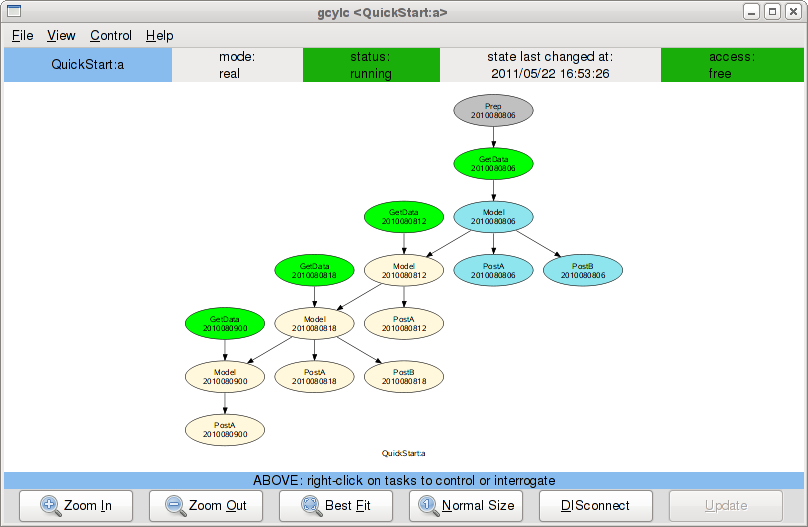
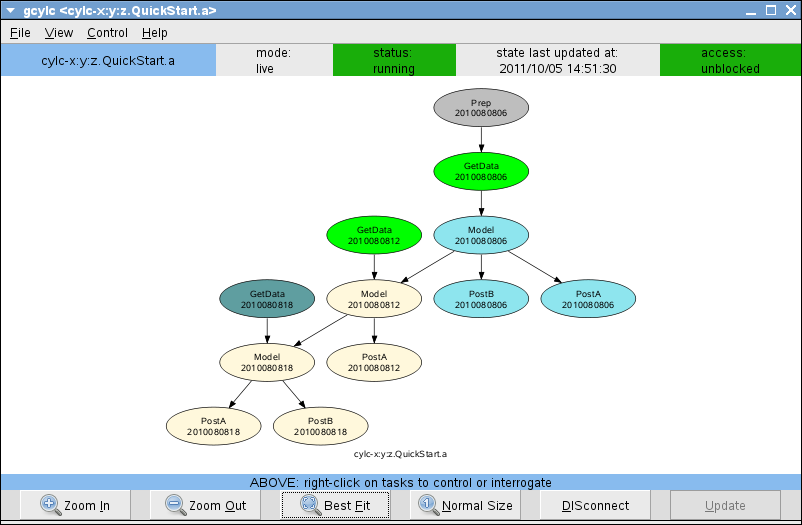
Updated the User Guide Quick Start screenshots and text.

Changed region(s): [[0.0, 0.0, 1.0, 1.0]]

diff --git a/doc/cug.tex b/doc/cug.tex
@@ -1203,8 +1203,8 @@ Figure~\ref{fig-QuickStartA-ControlStart00}.
     \end{center}
     \caption[Suite {\em QuickStart.a} at start-up, 06 or 18 hours.]{\scriptsize
     Suite {\em QuickStart:one} at start-up with an initial
-    cycle time ending in 06 or 18 hours. Blue nodes indicate tasks
-    in the waiting state.}
+    cycle time ending in 06 or 18 hours. Yellow nodes represent 
+    waiting tasks in the held state.}
     \label{fig-QuickStartA-ControlStart06}
 \end{figure} 
 
@@ -1214,10 +1214,10 @@ Figure~\ref{fig-QuickStartA-ControlStart00}.
     \end{center}
     \caption[Suite {\em QuickStart.a} at start-up, 00 or 12
     hours]{\scriptsize Suite {\em QuickStart.a} at start-up with an
-    initial cycle time ending in 00 or 12 hours. Blue nodes represent 
-    tasks in the waiting state and off-white nodes are tasks from the 
-    base graph, defined in the suite.rc file, that aren't currently live
-    in the suite.}
+    initial cycle time ending in 00 or 12 hours. Yellow nodes represent 
+    waiting tasks in the held state and off-white nodes are tasks from
+    the base graph, defined in the suite.rc file, that aren't currently
+    live in the suite.}
     \label{fig-QuickStartA-ControlStart00}
 \end{figure} 
 
@@ -1232,8 +1232,9 @@ are shown in the graph in order to put the live tasks in context).
 Now, click on Control $\rightarrow$ Release in the suite control GUI
 to {\em release the hold on the suite}, 
 and observe what happens: the GetData tasks will rapidly go off 
-in parallel out to a few cycles ahead , and then the suite will stall,
-as shown in Figures~\ref{fig-QuickStartA-ControlRunning}
+in parallel out to a few cycles ahead (how far ahead depends on 
+the suite runahead limit, explained below) and then the suite will
+stall, as shown in Figures~\ref{fig-QuickStartA-ControlRunning}
 and~\ref{fig-QuickStartA-ControlStalled}. 
 
 \begin{figure}
@@ -1241,8 +1242,9 @@ and~\ref{fig-QuickStartA-ControlStalled}.
         \includegraphics[width=0.8\textwidth]{screenshots/QuickStartA-ControlRunning.png}
     \end{center}
     \caption[Suite {\em QuickStart.a} running.]
-    {\scriptsize Suite {\em QuickStart.a} running, showing multiple
-    instances of the clock-triggered GetData task running at once.}
+    {\scriptsize Suite {\em QuickStart.a} running, showing several
+    consecutive instances of the clock-triggered GetData task running at
+    once, out to the suite runahead limit of 12 hours.}
     \label{fig-QuickStartA-ControlRunning}
 \end{figure} 
 \begin{figure}
@@ -1264,16 +1266,18 @@ wait on any upstream tasks), their trigger time has long passed (the
 initial cycle time was in the past), and they are not sequential tasks
 (so they are able to run in parallel - try declaring GetData
 sequential to see the difference).
-They don't spawn beyond four cycles ahead though, thanks to the suite 
-``runahead limit'' which is set to 12 hours in the suite.rc file. The
-runahead limit is designed to stop free tasks like this from running off
-too far into the future in delayed operation. It
-is of little conseqence in real time operation\footnote{So long as it
-is sufficient to span the normal range of cycle times present in the
-suite - task that only run once per day, for example, have to spawn a
-successor that is 24 hours ahead.} because clock triggered tasks are
-then constrained by the wall clock, and other tasks have to wait on
-them, generally speaking.
+Beyond the suite {\em runahead limit} of 12 hours (set in the suite.rc
+file), however, GetData is put into a special `runahead' held state 
+indicated by the darker blue graph node. The task will be released 
+from this state once the slower tasks in the suite have caught up 
+sufficiently.  The runahead limit is designed to stop free tasks like
+this from running off too far into the future in delayed operation. It
+is of little conseqence in real time operation\footnote{So long as the
+runahead limit is sufficient to span the normal range of cycle times
+present in the suite - task that only run once per day, for example,
+have to spawn a successor that is 24 hours ahead.} because clock
+triggered tasks are then constrained by the wall clock, and other tasks
+have to wait on them, generally speaking.
 
 \subsubsection{Viewing The State Of Tasks}
 
@@ -1294,8 +1298,8 @@ Figure~\ref{fig-QuickStartA-ModelState}.
     \label{fig-QuickStartA-ModelState}
 \end{figure} 
 
-It is clear that the reason the task is not running, and consequently, by
-virtue of the runahead limit, why the suite has stalled, is
+It is clear that the reason the task is not running, and consequently,
+by virtue of the runahead limit, why the suite has stalled, is
 that Model[T] is waiting on Model[T-6] which does not exist at suite
 start-up. Model represents a warm-cycled forecast model that depends on a
 model background state or restart file(s) generated by its own
